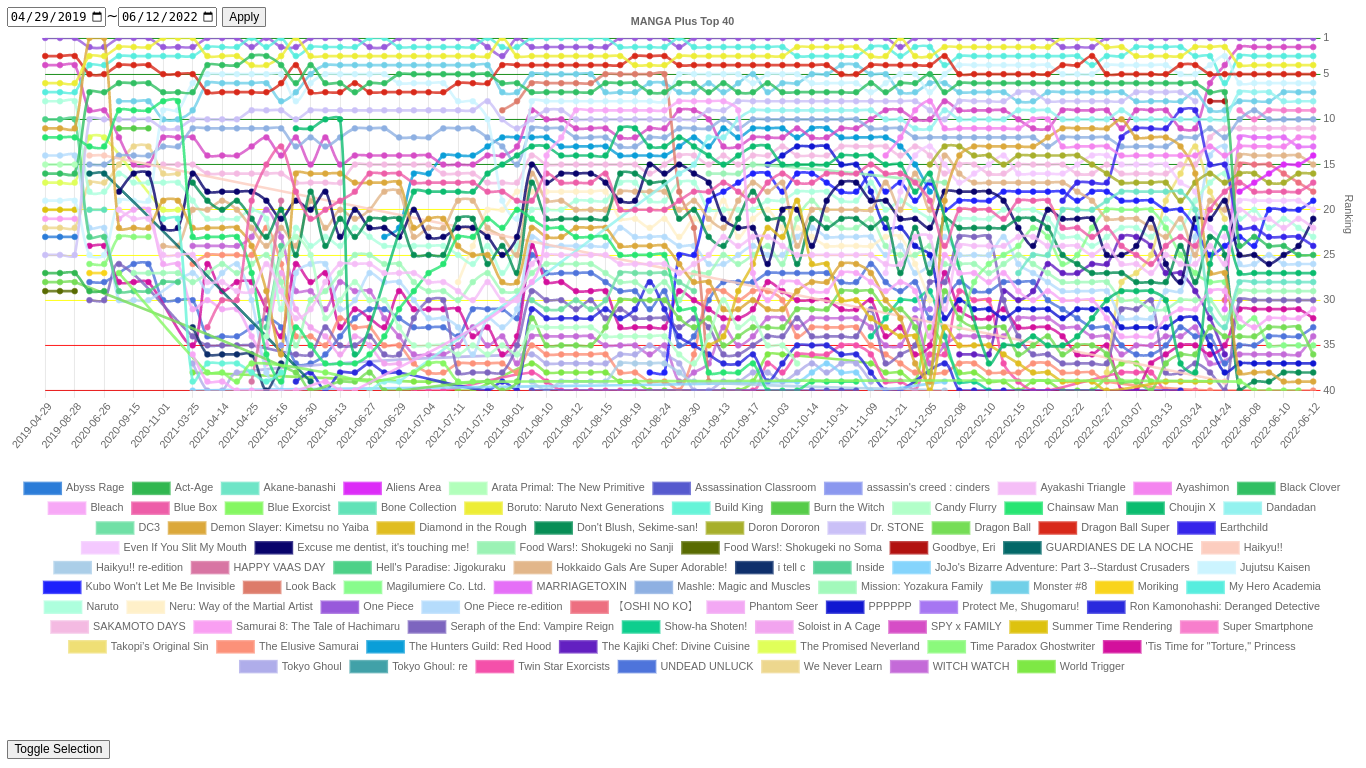
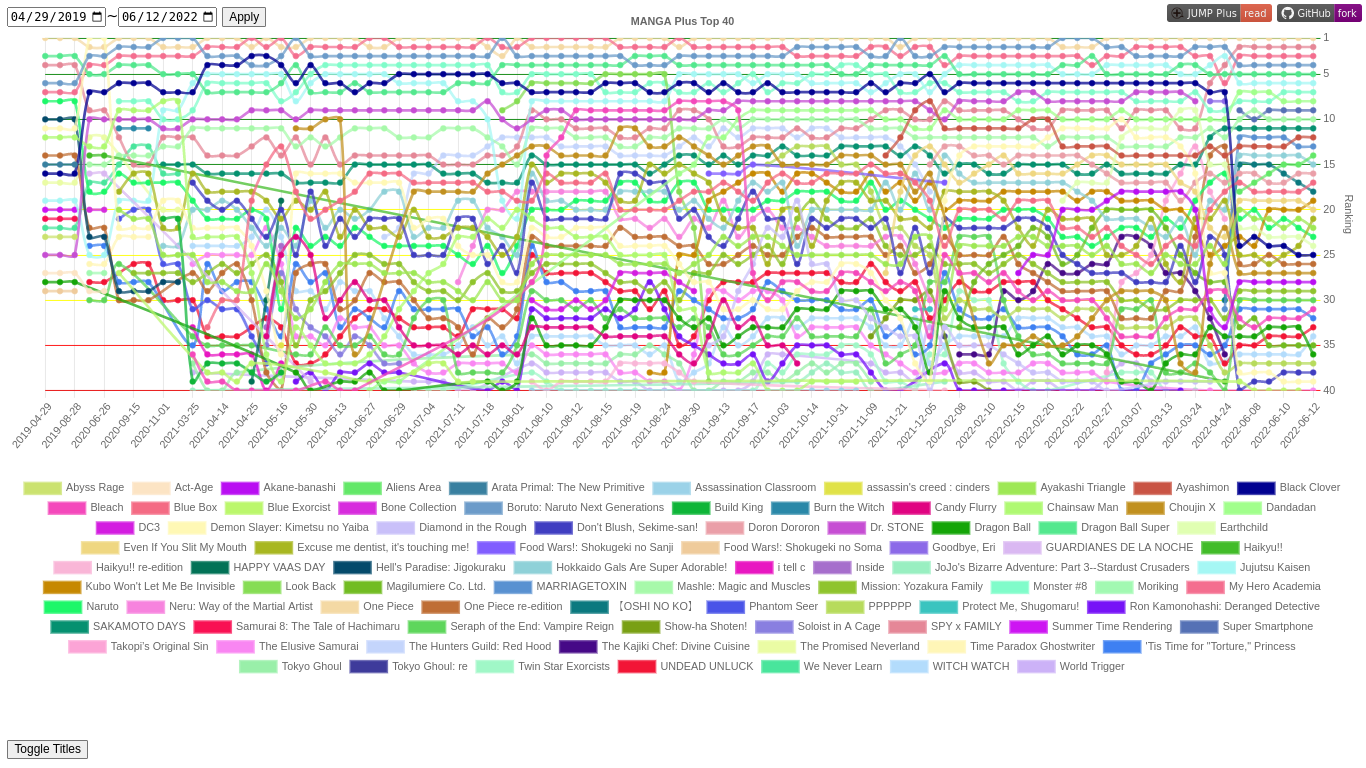
Add repo and site links

diff --git a/docs/index.html b/docs/index.html
@@ -6,10 +6,18 @@ layout: empty
 	{% include chartsjs.html %}
 </head>
 <body>
+	<div style="position: fixed; right: 4px; top: 4px;">
+		<a href="https://mangaplus.shueisha.co.jp/">
[1 lines of base64/hex data omitted]
+		</a>
+		<a href="https://github.com/williamd1k0/manga-plus-top40">
+			<img src="https://img.shields.io/static/v1?style=flat&logo=github&label=GitHub&message=fork&color=purple" />
+		</a>
+	</div>
 	<form action="" style="position: fixed;">
 		<input name="from" type="date" />~<input name="to" type="date" />
 		<button type="submit">Apply</button>
 	</form>
 	<canvas id="chart-all"></canvas>
-	<button id="toggle-selection-btn" style="position: fixed; bottom: 10px;">Toggle Selection</button>
+	<button id="toggle-selection-btn" style="position: fixed; bottom: 10px;">Toggle Titles</button>
 </body>

diff --git a/docs/_includes/head.html b/docs/_includes/head.html
@@ -1,2 +1,7 @@
 <meta charset="utf-8" />
 <title>{{ site.title }}</title>
+<style>
+a {
+	text-decoration: none;
+}
+</style>
